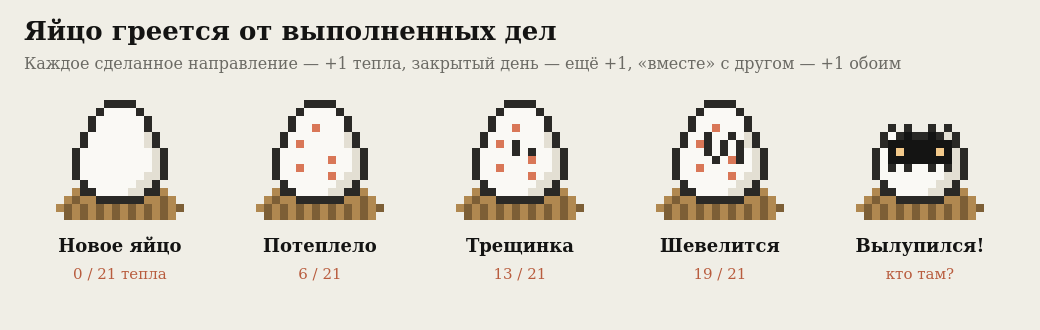
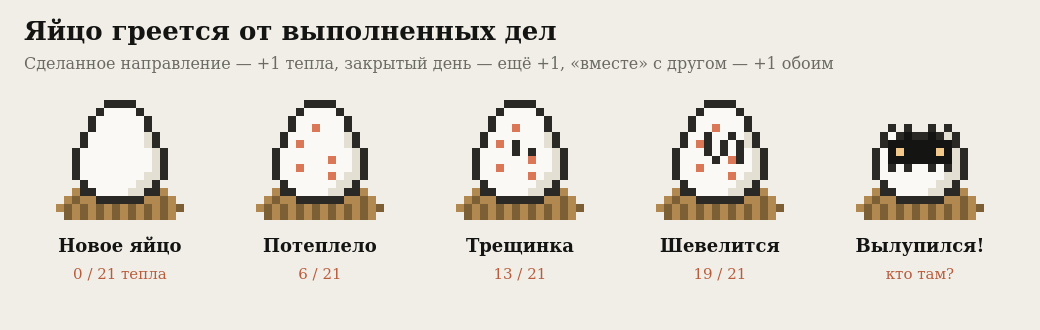
Fix lint in egg mock tool
Claude-Session: https://claude.ai/code/session_01EhjswqttVNjDcjjMTWyj9V

Changed region(s): [[0.0, 0.1818, 0.8615, 0.2121]]

diff --git a/tools/egg_card.py b/tools/egg_card.py
@@ -59,11 +59,11 @@ def with_rows(base, changes):
 SPOTS = {
     3: "....KWWSWWWK....",
     5: "...KWSWWWWWwK...",
-    7: "..KWWWWWWSWwK...",
+    7: "..KWWWWWWSWWwK..",
     8: "..KWWSWWWWWWwK..",
     9: "..KWWWWWWSWwwK..",
 }
-SPOTS[7] = "..KWWWWWWSWWwK.."
+CRACK = {**SPOTS, 5: "...KWSWKWWWwK...", 6: "..KWWWWKWKWWwK.."}
 STAGES = [
     ("Новое яйцо", "0 / 21 тепла", EGG),
     ("Потеплело", "6 / 21", with_rows(EGG, SPOTS)),
@@ -123,7 +123,7 @@ def main(out: str) -> None:
     p.drawText(
         QRect(24, 54, w, 26),
         Qt.AlignmentFlag.AlignLeft,
-        "Каждое сделанное направление — +1 тепла, закрытый день — ещё +1, «вместе» с другом — +1 обоим",
+        "Сделанное направление — +1 тепла, закрытый день — ещё +1, «вместе» с другом — +1 обоим",
     )
     for i, (title, warmth, rows) in enumerate(STAGES):
         image = art_to_image(rows, PALETTE)
